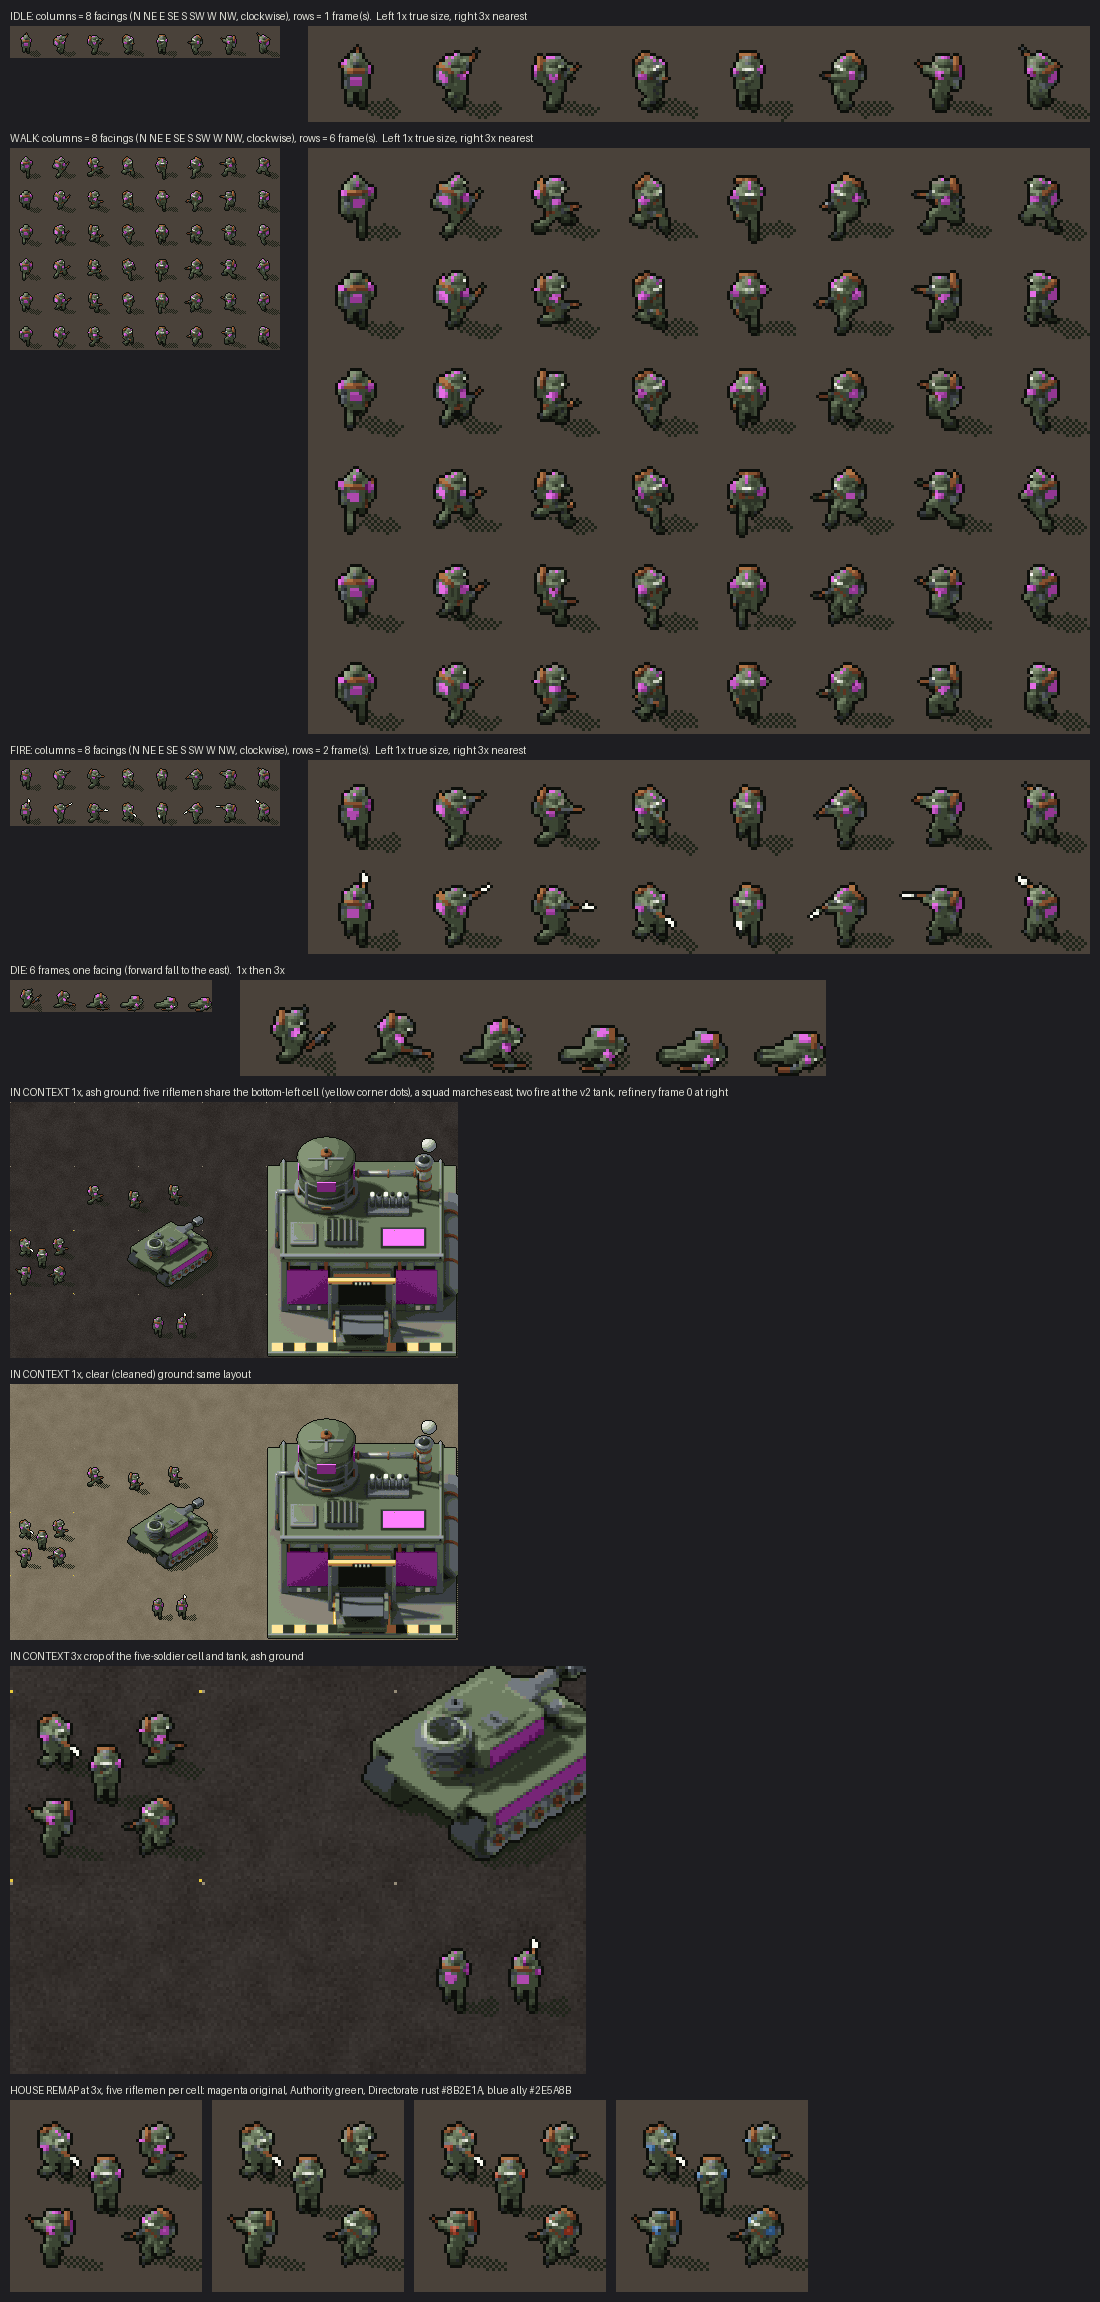
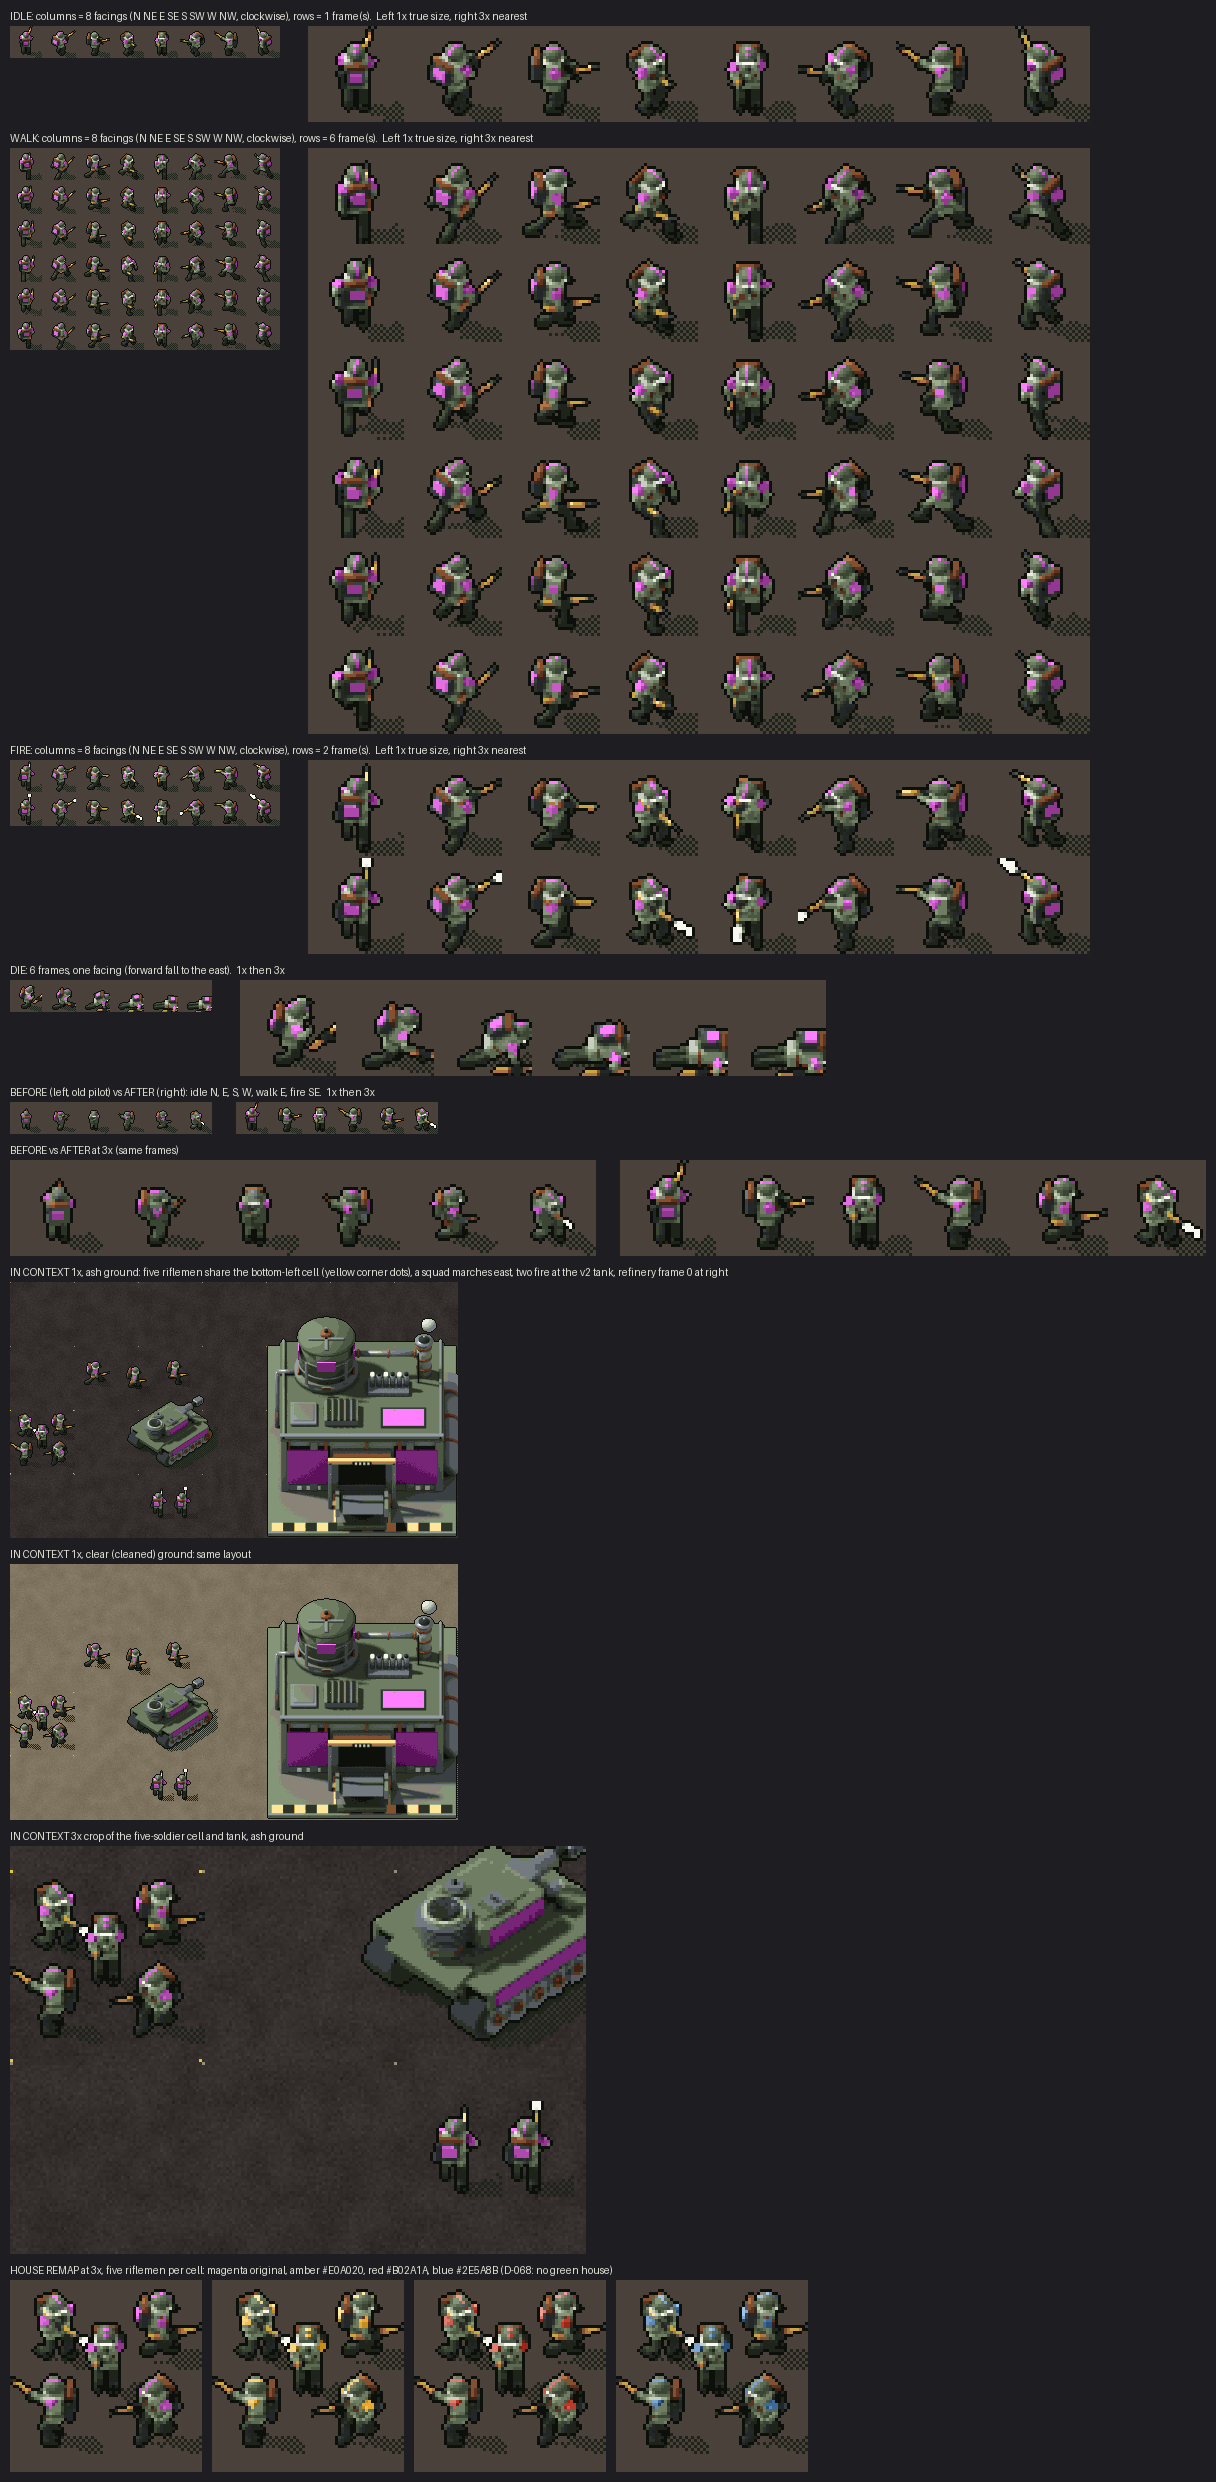
feat(art): rifleman pilot second pass, better definition [M2-13c]
Claude-Session: https://claude.ai/code/session_01KFnB2WZfNs2giNPhGurWge

diff --git a/tools/art/infantry/auth_rifleman.py b/tools/art/infantry/auth_rifleman.py
@@ -18,14 +18,16 @@ import math
 ID = "auth_rifleman"
 TITLE = "Authority Rifleman"
 CANVAS = (32, 32)
-ORIGIN = (16, 26)
+ORIGIN = (16, 27)
 # name, facings, frames, ticks_per_frame
 STATES = [("idle", 8, 1, 1), ("walk", 8, 6, 3), ("fire", 8, 2, 3), ("die", 1, 6, 3)]
 DIE_FACING = 2        # the fall is drawn facing east (head to the right), whatever way the soldier stood
 
 MATERIALS = {
-    "hull": ("#566448", 0.8, 0.0, None), "hull2": ("#4D5B42", 0.85, 0.0, None), "cloth": ("#69795A", 0.9, 0.0, None),
-    "dark": ("#1B1D16", 0.85, 0.0, None), "steel": ("#6E747A", 0.5, 0.6, None), "rust": ("#7C4A2B", 0.95, 0.0, None),
+    "hull": ("#8C9C6C", 0.8, 0.0, None), "hull2": ("#6E7F55", 0.85, 0.0, None), "cloth": ("#A9B684", 0.9, 0.0, None),
+    "pants": ("#2E3626", 0.9, 0.0, None), "pack": ("#3A3A2C", 0.9, 0.0, None), "helm": ("#4F5C3A", 0.6, 0.0, None),
+    "dark": ("#15170F", 0.85, 0.0, None), "steel": ("#2A2E33", 0.4, 0.6, None), "rust": ("#6A4326", 0.95, 0.0, None),
+    "wood": ("#C98E4E", 0.7, 0.0, None), "skin": ("#E8C9A0", 0.6, 0.0, None),
     "lens": ("#FFF0A8", 0.3, 0.0, "#FFE9A0"), "flash": ("#FFE79A", 0.3, 0.0, "#FFE08A"),
     "house": ("#E000E0", 0.75, 0.0, None),
 }
@@ -43,19 +45,19 @@ def lerp(a, b, t):
 
 def pose(state, step, n):
     base = dict(bob=0.0, lean=3.0, twist=0.0, dy=0.0, flash=False, gun_space="u",
-                feet=((-0.11, 0.03, 0.09), (0.11, -0.03, 0.09)),
-                gun=((0.05, 0.27, 0.27), 0.0, 38.0), hands=("gun", "gun"))
+                feet=((-0.13, 0.03, 0.09), (0.13, -0.03, 0.09)),
+                gun=((0.10, 0.32, 0.27), -22.0, 30.0), hands=("gun", "gun"))
     if state == "idle":
         return base
     if state == "walk":
         ph = 2 * math.pi * step / n
-        stride, lift = 0.30, 0.15
+        stride, lift = 0.36, 0.20
         feet = []
         for off in (0.0, math.pi):
             p = ph + off
             y = stride * math.cos(p)
             z = 0.09 + lift * max(0.0, -math.sin(p))
-            feet.append((-0.11 if off == 0 else 0.11, y, z))
+            feet.append((-0.13 if off == 0 else 0.13, y, z))
         fwd = -math.cos(ph)                  # left arm swings opposite the left leg
         hl = (-0.28, 0.30 * fwd, -0.03 + 0.10 * max(0.0, fwd))
         bob = 0.035 * -math.cos(2 * ph)
@@ -100,15 +102,14 @@ def build(S, p):
         return tuple(U @ R.Vector(pt))
 
     # ---------------- torso, coat, mantle, belt
-    S.box((0.44, 0.28, 0.27), (0, 0, -0.03), "hull2", U, bevel=0.03)                 # coat skirt
-    S.box((0.40, 0.25, 0.40), (0, 0, 0.22), "hull", U, bevel=0.03)                   # torso
+    S.box((0.40, 0.26, 0.24), (0, 0, -0.02), "hull", U, bevel=0.03)                 # coat skirt
+    S.box((0.36, 0.24, 0.40), (0, 0, 0.22), "cloth", U, bevel=0.03)                   # torso
     S.box((0.42, 0.27, 0.05), (0, 0, 0.05), "rust", U)                               # belt
     S.box((0.12, 0.05, 0.13), (0.1, 0.14, 0.2), "rust", U)                           # chest pouches
     S.box((0.12, 0.05, 0.13), (-0.1, 0.14, 0.2), "rust", U)
-    S.box((0.46, 0.30, 0.07), (0, -0.02, 0.425), "cloth", U, bevel=0.03)             # ash mantle over the shoulders
-    S.box((0.44, 0.05, 0.34), (0, -0.15, 0.24), "cloth", U, rot=(-8, 0, 0))          # cape hanging down the back
-    # ---------------- backpack: bedroll, filter canister, house panel on the back
-    S.box((0.32, 0.17, 0.36), (0, -0.26, 0.24), "hull2", U, bevel=0.02)
+    S.box((0.42, 0.28, 0.06), (0, -0.02, 0.43), "cloth", U, bevel=0.03)             # ash mantle over the shoulders
+        # ---------------- backpack: bedroll, filter canister, house panel on the back
+    S.box((0.30, 0.17, 0.36), (0, -0.26, 0.24), "pack", U, bevel=0.02)
     S.box((0.24, 0.025, 0.20), (0, -0.355, 0.27), "house", U, bevel=0)
     S.cyl(0.06, 0.40, (0, -0.27, 0.46), "rust", "X", U, verts=10)
     S.cyl(0.07, 0.30, (-0.21, -0.25, 0.16), "steel", "Z", U, verts=10)
@@ -116,26 +117,26 @@ def build(S, p):
     # ---------------- head: helmet + ridge stripe, visor, goggles, respirator
     hc = (0, 0.0, 0.54)
     S.box((0.10, 0.10, 0.07), (0, 0, 0.46), "dark", U)                               # neck
-    S.sphere((0.155, 0.17, 0.13), hc, "hull", U)                                     # helmet
-    S.sphere((0.052, 0.18, 0.142), hc, "house", U)                                   # ridge stripe over the crown
-    S.box((0.21, 0.13, 0.13), (0, 0.075, 0.47), "dark", U, bevel=0.03)               # sealed face hood
-    S.box((0.23, 0.06, 0.05), (0, 0.15, 0.56), "hull2", U, bevel=0.01)               # helmet peak
+    S.sphere((0.17, 0.18, 0.14), (0, 0, 0.56), "helm", U)                                     # helmet
+    S.sphere((0.055, 0.19, 0.152), (0, 0, 0.56), "house", U)                                   # ridge stripe over the crown
+    S.box((0.19, 0.12, 0.12), (0, 0.075, 0.47), "skin", U, bevel=0.03)               # sealed face hood
+    S.box((0.30, 0.12, 0.035), (0, 0.10, 0.545), "dark", U, bevel=0.01)               # helmet peak
     S.box((0.085, 0.04, 0.06), (0.058, 0.15, 0.50), "lens", U, bevel=0)             # goggles
     S.box((0.085, 0.04, 0.06), (-0.058, 0.15, 0.50), "lens", U, bevel=0)
-    S.cyl(0.05, 0.10, (0, 0.17, 0.43), "steel", "Y", U, verts=10)                    # respirator snout
+    S.cyl(0.05, 0.10, (0, 0.17, 0.43), "dark", "Y", U, verts=10)                    # respirator snout
     S.cyl(0.035, 0.07, (0, 0.24, 0.425), "dark", "Y", U, verts=8)
     # ---------------- rifle
     GM = (U if p["gun_space"] == "u" else Matrix.Identity(4)) @ R.tr(*p["gun"][0]) @ R.rz(p["gun"][1]) @ R.rx(p["gun"][2])
-    S.box((0.05, 0.27, 0.10), (0, -0.25, -0.01), "rust", GM, rot=(-6, 0, 0))         # stock
+    S.box((0.05, 0.27, 0.10), (0, -0.25, -0.01), "wood", GM, rot=(-6, 0, 0))         # stock
     S.box((0.06, 0.25, 0.09), (0, 0, 0), "steel", GM)                                # receiver
-    S.box((0.055, 0.19, 0.07), (0, 0.21, -0.005), "rust", GM)                        # handguard
-    S.cyl(0.018, 0.14, (0, 0.37, 0.005), "dark", "Y", GM, verts=6)                   # barrel
+    S.box((0.055, 0.30, 0.07), (0, 0.26, -0.005), "wood", GM)                        # handguard
+    S.cyl(0.022, 0.22, (0, 0.50, 0.005), "steel", "Y", GM, verts=6)                   # barrel
     S.box((0.04, 0.07, 0.15), (0, 0.02, -0.11), "dark", GM, rot=(8, 0, 0))           # magazine
     S.box((0.04, 0.05, 0.09), (0, -0.10, -0.07), "dark", GM)                         # pistol grip
     S.box((0.02, 0.04, 0.04), (0, 0.04, 0.065), "dark", GM)                          # sight
     if p["flash"]:
-        S.cyl(0.05, 0.16, (0, 0.52, 0.005), "flash", "Y", GM, verts=8, r2=0.0)
-        S.sphere((0.06, 0.06, 0.06), (0, 0.46, 0.005), "flash", GM, seg=8)
+        S.cyl(0.07, 0.24, (0, 0.76, 0.005), "flash", "Y", GM, verts=8, r2=0.0)
+        S.sphere((0.09, 0.09, 0.09), (0, 0.64, 0.005), "flash", GM, seg=8)
 
     # ---------------- arms: shoulder -> elbow -> wrist; house band on the upper arm
     for side, hand_spec in ((-1, p["hands"][0]), (1, p["hands"][1])):
@@ -148,17 +149,17 @@ def build(S, p):
             tgt = R.Vector(up(hand_spec[1]))
         else:                                     # bare point in upper-body coords
             tgt = R.Vector(up(hand_spec))
-        pole = U.to_3x3() @ R.Vector((side * 0.6, -0.5, -1.0))
+        pole = U.to_3x3() @ R.Vector((side * 1.2, -0.3, -0.6))
         elbow, wrist = R.ik2(sh, tgt, L_UPPER, L_FORE, pole)
-        S.limb(sh, elbow, 0.115, "hull")
-        S.limb(sh, sh.lerp(elbow, 0.5), 0.15, "house", bevel=0.0)
-        S.limb(elbow, wrist, 0.10, "hull2")
+        S.limb(sh, elbow, 0.10, "hull")
+        S.limb(sh, sh.lerp(elbow, 0.55), 0.135, "house", bevel=0.0)
+        S.limb(elbow, wrist, 0.085, "hull2")
         S.box((0.08, 0.09, 0.08), tuple(wrist), "dark", None, bevel=0.01)
     # ---------------- legs: hip -> knee -> ankle, boots
     for side, ft in ((-1, p["feet"][0]), (1, p["feet"][1])):
-        hip = R.Vector((side * 0.10, pel[1], pel[2] - 0.04))
+        hip = R.Vector((side * 0.115, pel[1], pel[2] - 0.04))
         ank = R.Vector(ft)
         knee, ank = R.ik2(hip, ank, L_THIGH, L_SHIN, R.Vector((0, 1, 0)))
-        S.limb(hip, knee, 0.145, "hull2")
-        S.limb(knee, ank, 0.12, "hull2")
+        S.limb(hip, knee, 0.13, "pants")
+        S.limb(knee, ank, 0.11, "pants")
         S.box((0.13, 0.27, 0.10), (ank.x, ank.y + 0.04, ank.z - 0.035), "dark", None, bevel=0.015)

diff --git a/tools/art/infantry/contact.py b/tools/art/infantry/contact.py
@@ -87,6 +87,20 @@ def main():
     gd = [[get("die", 0, k) for k in range(nd)]]
     blocks.append(("DIE: 6 frames, one facing (forward fall to the east).  1x then 3x", hcat([grid(gd, 1, nd, 1), grid(gd, 1, nd, 3)], 28)))
 
+    old = os.path.join(C.ROOT, "art", "pilot", "work", "old_pilot_sheet.png")
+    if os.path.exists(old):
+        osh = Image.open(old).convert("RGBA")
+        ofr = C.split_sheet(osh, BI.COLS, osh.height // 32)
+        pr = [(0, "idle"), (2, "idle"), (4, "idle"), (6, "idle")]
+        rows_old = [[ofr[f] for f in (0, 2, 4, 6)] + [ofr[8 + 2 * 6 + 1]] + [ofr[56 + 3 * 2 + 1]]]
+        rows_new = [[get("idle", f) for f in (0, 2, 4, 6)] + [get("walk", 2, 1)] + [get("fire", 3, 1)]]
+        rows_old[0][4] = ofr[8 + 2 * 6 + 1]
+        strips = []
+        for z in (1, 3):
+            strips.append(hcat([grid(rows_old, 1, 6, z), grid(rows_new, 1, 6, z)], 24))
+        blocks.append(("BEFORE (left, old pilot) vs AFTER (right): idle N, E, S, W, walk E, fire SE.  1x then 3x", strips[0]))
+        blocks.append(("BEFORE vs AFTER at 3x (same frames)", strips[1]))
+
     # in-context patches 7x4 cells of 64 px
     cell = 64
     tank = C.split_sheet(Image.open(os.path.join(C.ROOT, "data", "sprites", "vehicles", "tank_v2.png")).convert("RGBA"), 4, 4)
@@ -133,7 +147,10 @@ def main():
     # remap: five riflemen in one cell, each house, at 3x
     R.TOL = 0
     ramp_set = {tuple(c) for c in C.HOUSE}
-    variants = [("original", None)] + list(R.HOUSES.items())
+    HOUSES3 = {"amber #E0A020": C.make_ramp(C.hx("#2E1F04"), C.hx("#E0A020"), C.hx("#FFE9A6")),
+               "red #B02A1A": C.make_ramp(C.hx("#2A0D08"), C.hx("#B02A1A"), C.hx("#F0A090")),
+               "blue #2E5A8B": C.make_ramp(C.hx("#0C1B2E"), C.hx("#2E5A8B"), C.hx("#9CC6EE"))}
+    variants = [("original", None)] + list(HOUSES3.items())
     imgs = []
     picks = [get("idle", 4), get("fire", 3, 1), get("walk", 2, 1), get("idle", 6), get("walk", 5, 4)]
     for name, ramp in variants:
@@ -148,7 +165,7 @@ def main():
                 assert (a0[:, 3] == a1[:, 3]).all()
             cellimg.alpha_composite(g, (sx - ox, sy - oy))
         imgs.append(zoom(cellimg.convert("RGB"), 3))
-    blocks.append(("HOUSE REMAP at 3x, five riflemen per cell: magenta original, Authority green, Directorate rust #8B2E1A, blue ally #2E5A8B", hcat(imgs, 10)))
+    blocks.append(("HOUSE REMAP at 3x, five riflemen per cell: magenta original, amber #E0A020, red #B02A1A, blue #2E5A8B (D-068: no green house)", hcat(imgs, 10)))
 
     W = max(b[1].width for b in blocks) + 20
     total = 10 + sum(b[1].height + 26 for b in blocks)

diff --git a/tools/art/infantry/rig.py b/tools/art/infantry/rig.py
@@ -7,7 +7,7 @@ import bmesh
 from mathutils import Matrix, Vector
 
 
-SCALE = 0.85   # model units -> world units: a soldier is about 19 px tall at 1x
+SCALE = 1.05   # model units -> world units: a soldier is about 23 px tall at 1x
 
 
 def lin(hexstr):

diff --git a/art/pilot/README.md b/art/pilot/README.md
@@ -192,6 +192,16 @@ About 0.5 s per frame (colour + mask + shadow at 128 px, 24 samples): full sheet
 Most of the wall-clock was waiting for the shared Blender lock behind vehicle/structure renders. Minutes spent: not tracked
 precisely, roughly 60-70 of work excluding lock waits.
 
+## Second pass (M2-13c, D-068: "a little like a blob")
+Changes: figure scaled 0.85 -> 1.05 (about 23 px tall; frame stays 32x32, origin now (16, 27)); value separation (light coat and
+mantle, dark trousers, dark pack, dark helmet with a wide dark brim, pale face block, near-black boots); thinner arms held away
+from the torso; rifle longer, held diagonally across the body (light wood, dark steel barrel) so it shows on N/S as well; longer
+walk stride (feet visibly apart); bigger muzzle flash. House bands/helmet stripe/pack panel unchanged. contact.py remap row is now
+amber #E0A020 / red #B02A1A / blue #2E5A8B, plus a BEFORE/AFTER strip (old sheet kept in git-ignored art/pilot/work/old_pilot_sheet.png).
+Iterations: 2 renders + 1 tweak (about 25 s each). Minutes spent: roughly 20. The "Honest notes" below are from the first pass;
+notes 1-3 are superseded (now about 23 px, face block visible from the front, N/S legs read apart).
+Open: the helmet/coat contrast is good but the face is still only a few px; W/E rifle tips run near the canvas edge.
+
 ## Honest notes
 1. The soldier is about 17-19 px tall; house colour reads at 1x from all facings (back panel, shoulders, helmet stripe).
 2. Facing reads mostly through the rifle and the lumpy backpack silhouette; the face (goggles, respirator) is only 1-3 px.
